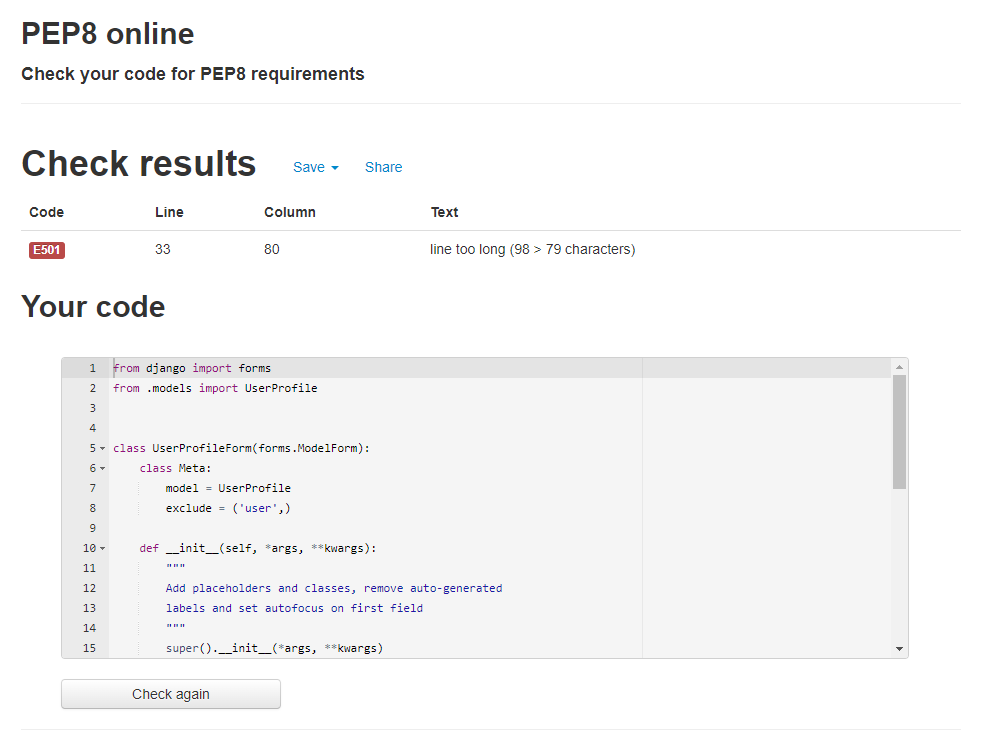
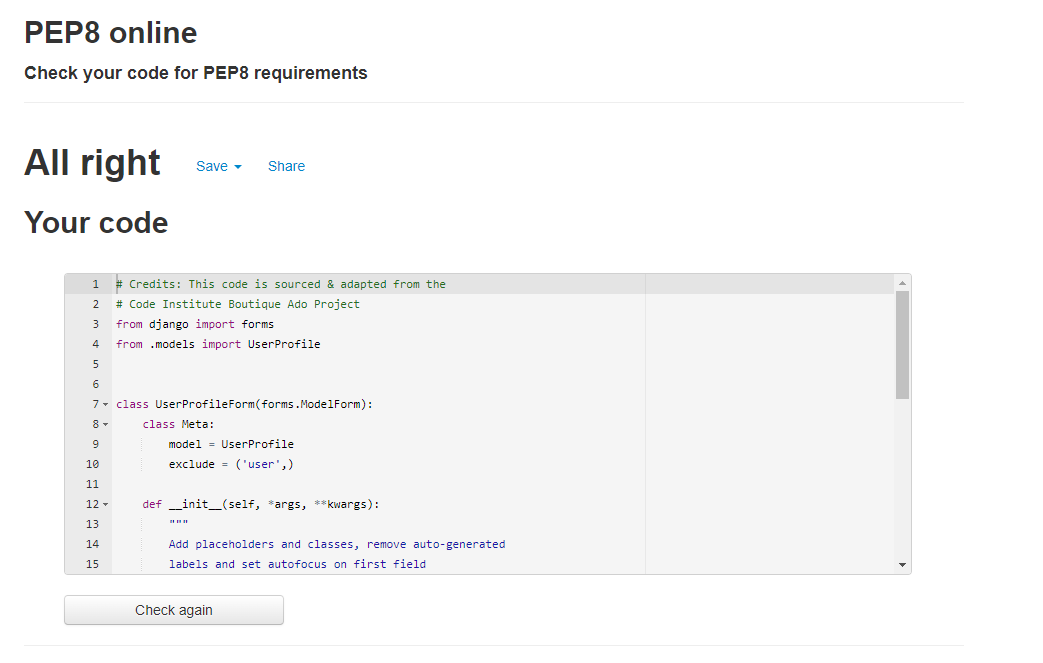
Add profiles application screenshots to PEP8

diff --git a/TESTING.md b/TESTING.md
@@ -297,8 +297,8 @@ No. |Python File | PEP8 Status | Screenshot
 No. |Python File | PEP8 Status | Screenshot 
 ------------- |------------- | ------------- | ------------ 
 1 | [apps.py](profiles/apps.py) | No issues | ![link](readme/testing/pep8/profiles-apps.png)
-2 | [forms.py](profiles/forms.py) | Line Length x1 | ![link](readme/testing/pep8/profiles-forms.png)
-3 | [models.py](profiles/models.py) | Line Length x5 | ![link](readme/testing/pep8/profiles-models.png)
-4 | [urls.py](profiles/urls.py) | Line Length x1 | ![link](readme/testing/pep8/profiles-urls.png)
-5 | [views.py](profiles/views.py) | Line Length x1 | ![link](readme/testing/pep8/profiles-views.png)
+2 | [forms.py](profiles/forms.py) | No issues | ![link](readme/testing/pep8/profiles-forms.png)
+3 | [models.py](profiles/models.py) | No issues | ![link](readme/testing/pep8/profiles-models.png)
+4 | [urls.py](profiles/urls.py) | No issues | ![link](readme/testing/pep8/profiles-urls.png)
+5 | [views.py](profiles/views.py) | No issues | ![link](readme/testing/pep8/profiles-views.png)
 
